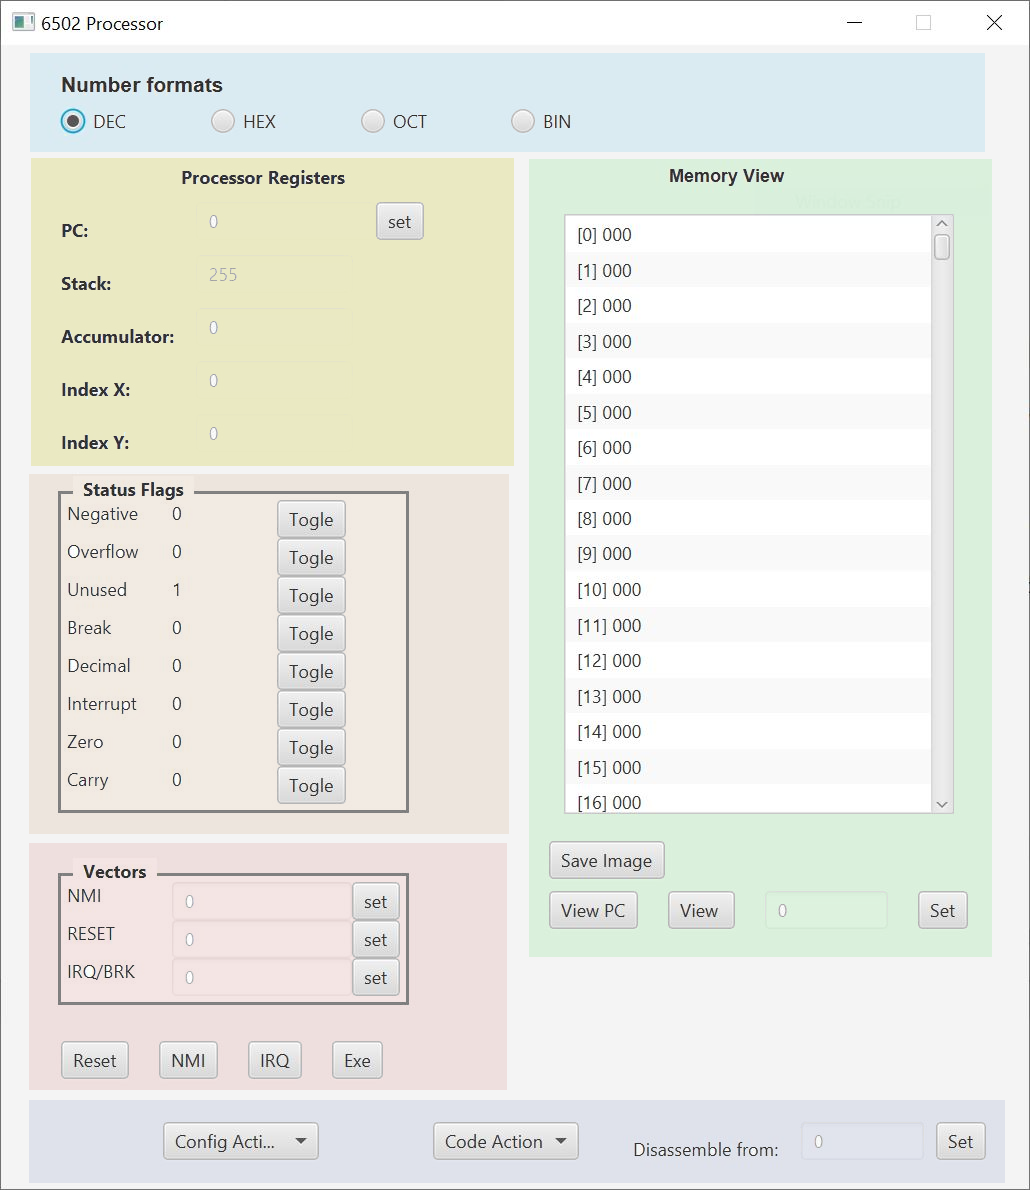
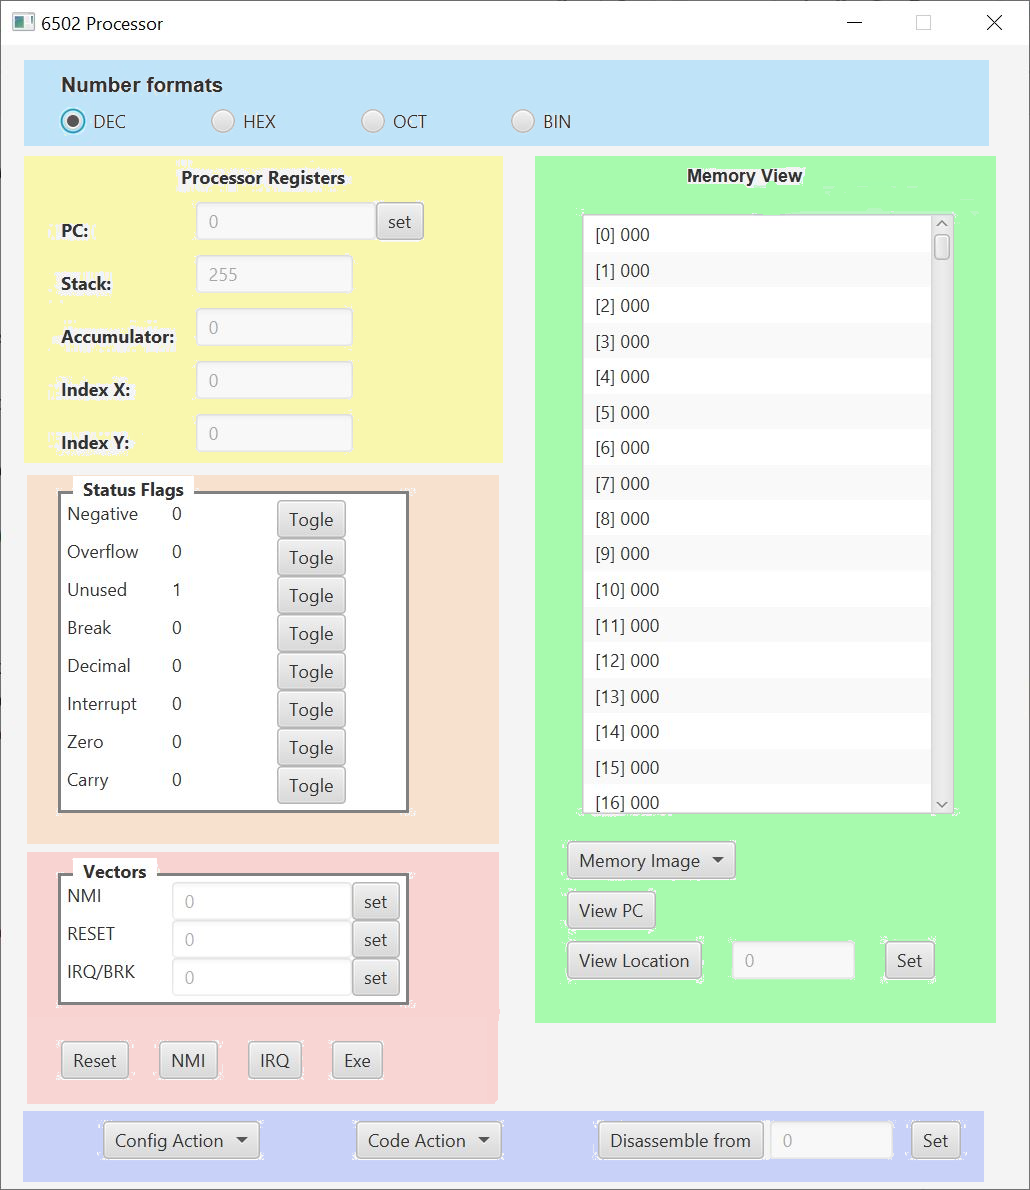
UI and READ.me update ready for version 0.1.2.

diff --git a/README.md b/README.md
@@ -78,11 +78,12 @@ The **Reset**, **NMI** and **IRQ** buttons perform the associated interrupt acti
 
 Displays the contents of all 65536 memory locations with disasembly of contents if valid.
 
-**Save Image** button saves the current contents of memory to an image file.
+**Memory Image** Menu button with options to save and load the current contents of memory to an image file.
 
 The **View PC** button scrolls the view to the current PC location.
 
-The **View** button scrolls the view to the location entered. The loaction is displaye din the associated field in the format selected (DEC, HEX, OCT or BIN) and set by clicking the set button which pops up an input form.
+The **View Location** button scrolls the view to the location entered using the set button which pops up a numeric input form enabling the value to be entered in the current selected Number Format (DEC, HEX, OCT or BIN).
+
 
 ### Actions Area <img width="16" alt="palepurple" src="images/palepurpledot.jpg">
 
@@ -93,7 +94,8 @@ The **View** button scrolls the view to the location entered. The loaction is di
 **Code Actions** menu button.
 * Open Editor - opens the code editor
 * Assemble from file - assembles a file without loading into the editor.
-* Disassemble from location - disassembles instruction from the given location.
 
-***Disassemble Location***
-Displayed in the format selected (DEC, HEX, OCT or BIN) and set by clicking the set button which pops up an input form.
+
+***Disassemble From***
+Disassembles the current memory contents from the given location until the first ZERO byte or the end of memory.
+The current disassembly location is set using the set button which pops up a numeric input form enabling the value to be entered in the current selected Number Format (DEC, HEX, OCT or BIN).
